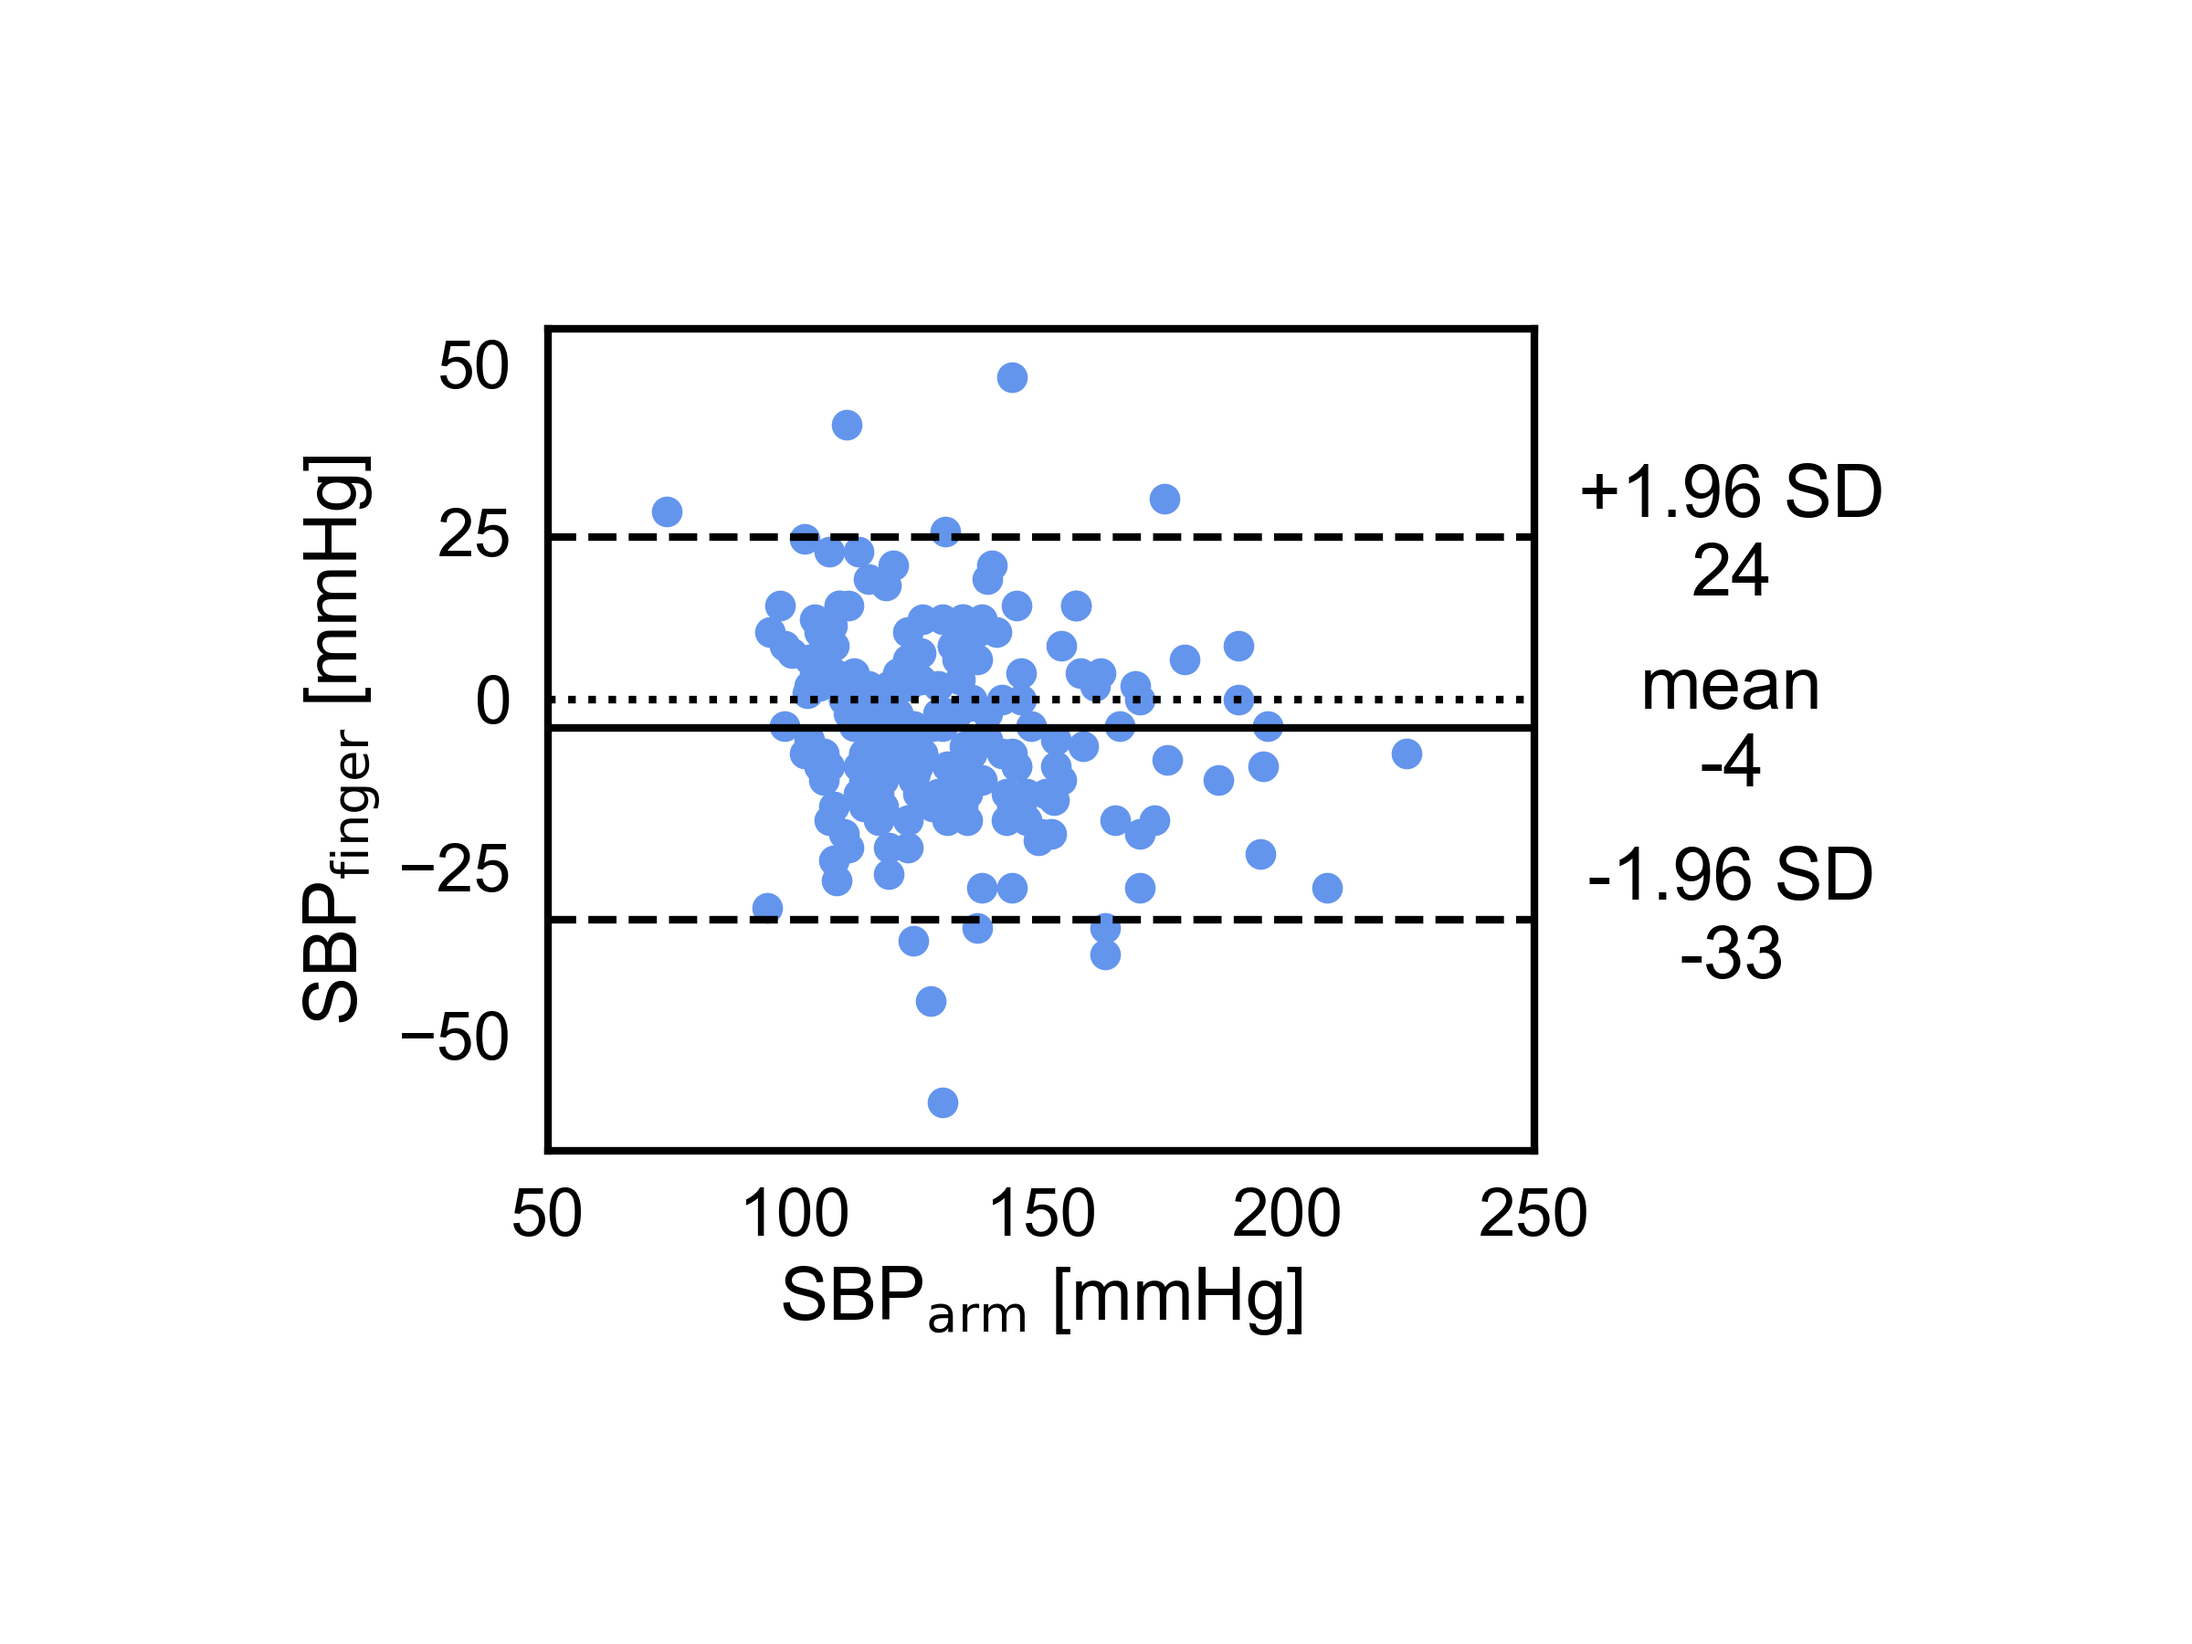
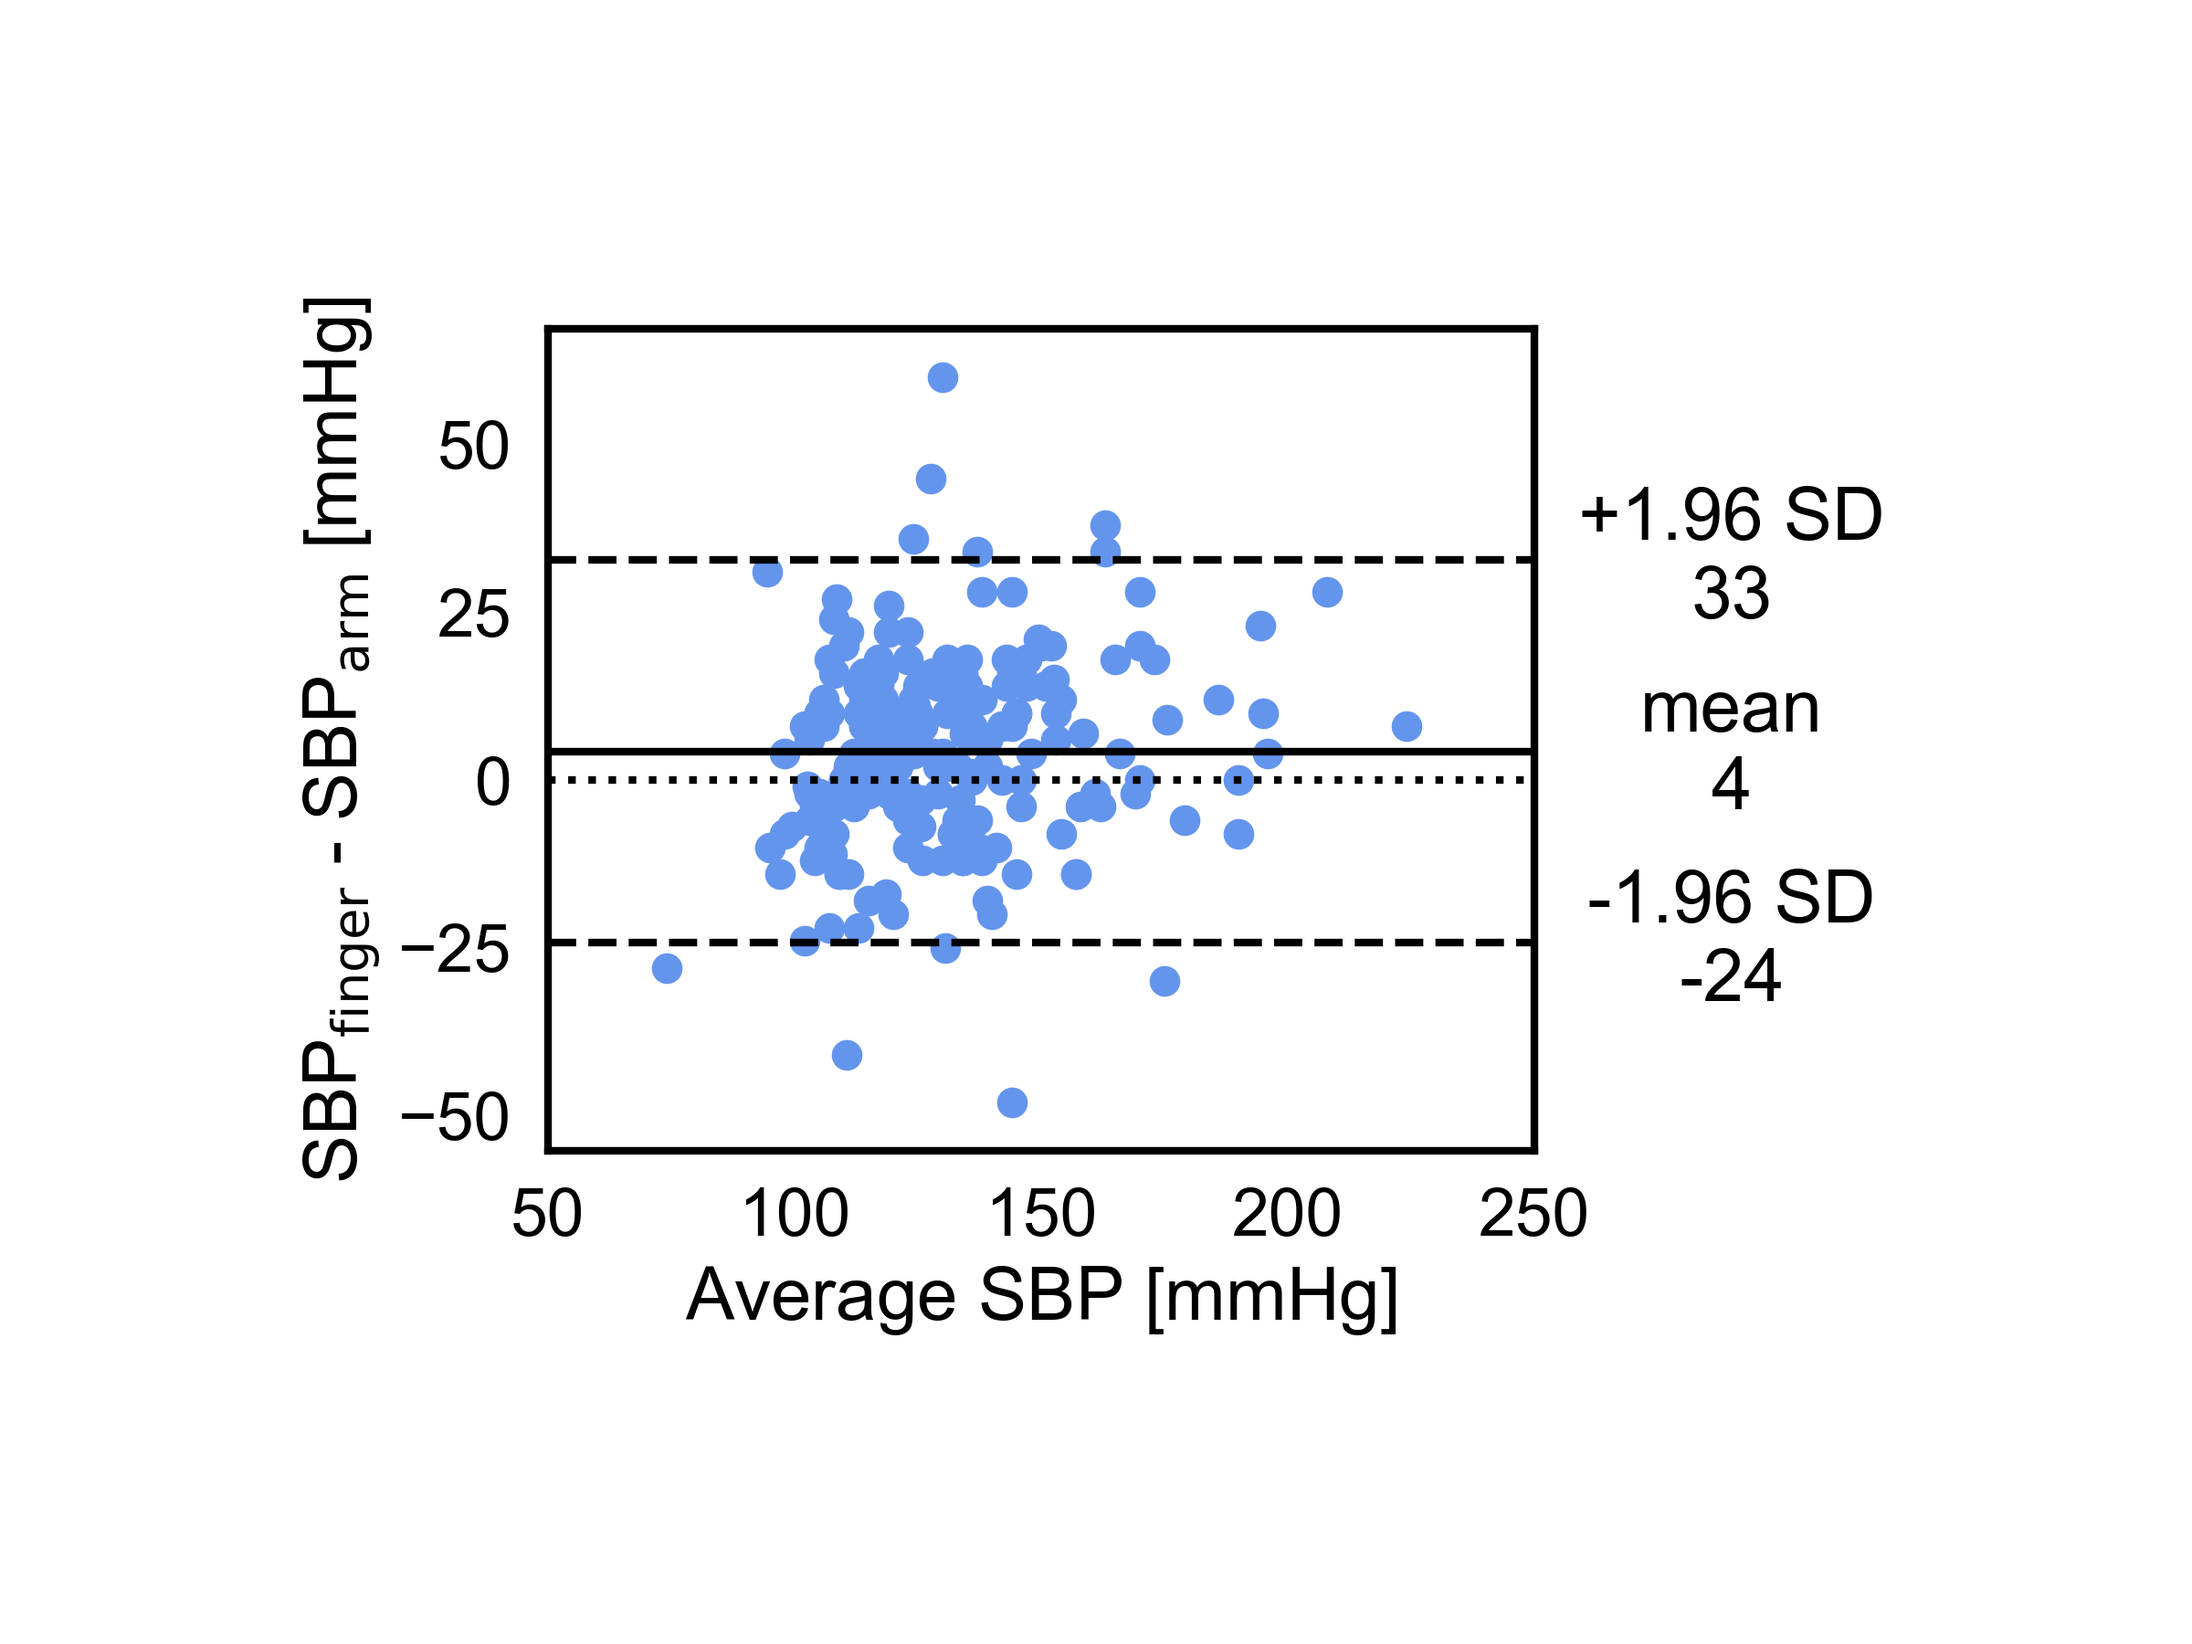
Labels modification.

diff --git a/bland_altman_plot.py b/bland_altman_plot.py
@@ -19,7 +19,7 @@ def generate_bland_altman(data1, data2, ax_var, color_input):
     Generates a Bland-Altman plot for two sets of data.
     """
     mean = np.mean([data1, data2], axis=0)
-    diff = data1 - data2  # difference between data1 and data2
+    diff = data2 - data1  # difference between data1 and data2
     md = np.mean(diff)  # mean of the difference
     sd = np.std(diff, axis=0)  # standard deviation of the difference
     ci_low = md - 1.96 * sd
@@ -104,7 +104,7 @@ def generate_plot(measure1,
 
         # add global title
         if super_title is not None:
-            fig.suptitle(super_title, fontsize="large", color="k")
+            fig.suptitle(super_title, fontsize="large", color="black")
 
 
 if __name__ == '__main__':
@@ -121,8 +121,10 @@ if __name__ == '__main__':
     generate_plot(m1_array,
                   m2_array,
                   [50, 250],
-                  independent_variable_label=r'SBP$_{\rm arm}$ $\mathregular{[mmHg]}$',
-                  dependent_variable_label=r'SBP$_{\rm finger}$ $\mathregular{[mmHg]}$',
+                  independent_variable_label= \
+                      r'Average SBP $\mathregular{[mmHg]}$',
+                  dependent_variable_label= \
+                      r'SBP$_{\rm finger}$ - SBP$_{\rm arm}$ $\mathregular{[mmHg]}$',
                   specified_colors='cornflowerblue')
 
     # save figure
